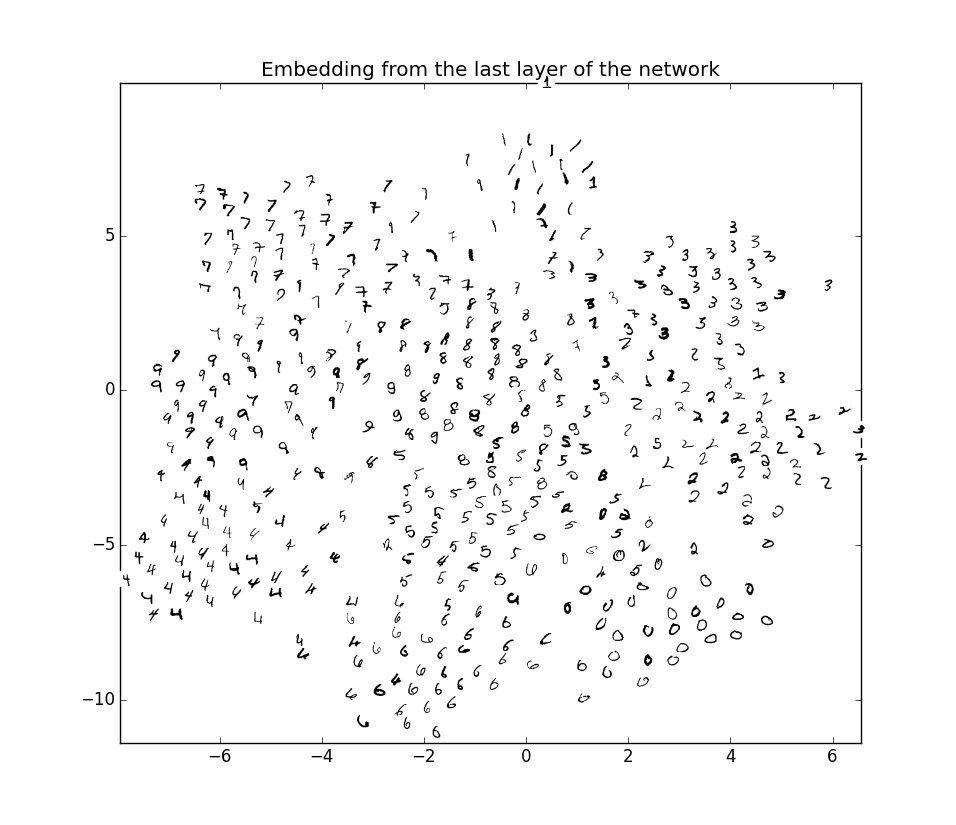
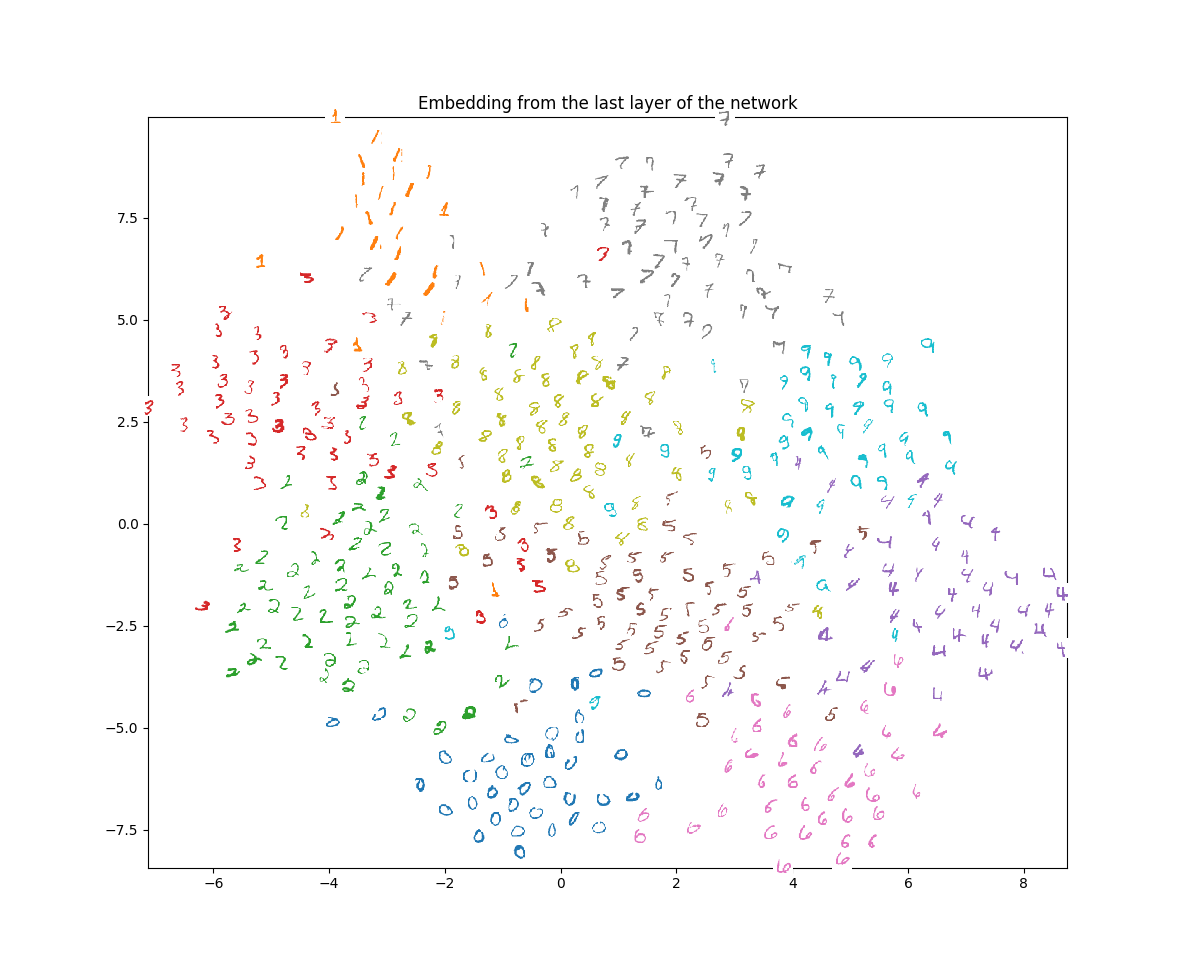
updated and checked with tensorflow 1.5, added colors to visualization

diff --git a/run.py b/run.py
@@ -44,7 +44,7 @@ if os.path.isfile(model_ckpt):
 # start training
 if load: saver.restore(sess, './model')
 
-for step in range(100000):
+for step in range(50000):
     batch_x1, batch_y1 = mnist.train.next_batch(128)
     batch_x2, batch_y2 = mnist.train.next_batch(128)
     batch_y = (batch_y1 == batch_y2).astype('float')
